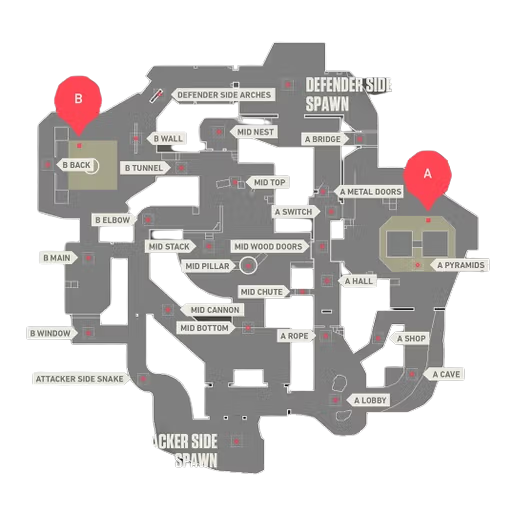
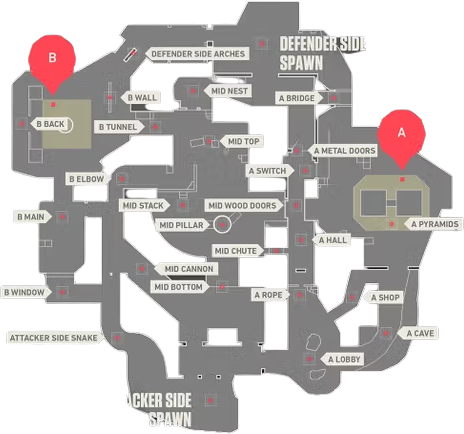
fix: trim minimap images

diff --git a/css/map.css b/css/map.css
@@ -16,7 +16,7 @@
 
 #header-minimap-img {
   --cornerClipAmt: 64px;
-  max-width: 480px;
+  max-width: 360px;
   clip-path: polygon(
     0 var(--cornerClipAmt),
     calc(tan(var(--skewAmt)) * -1 * var(--cornerClipAmt)) 0,
